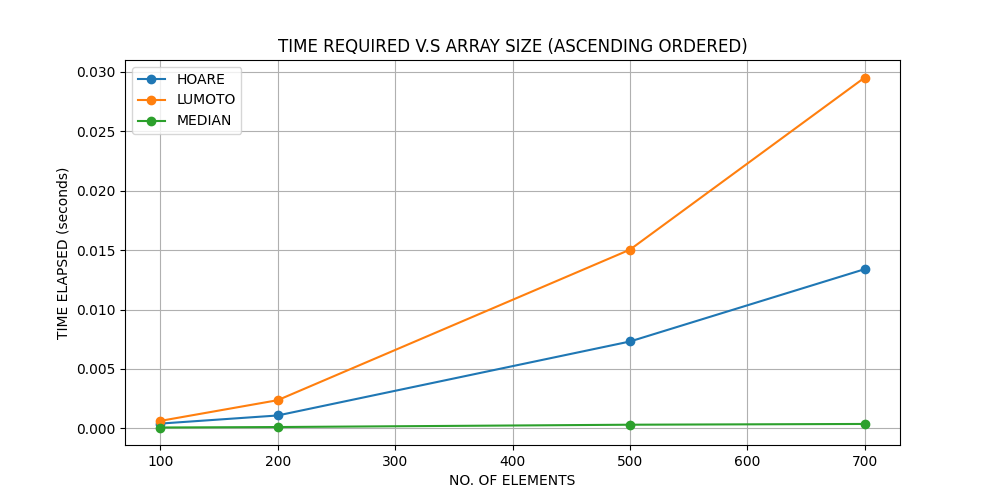
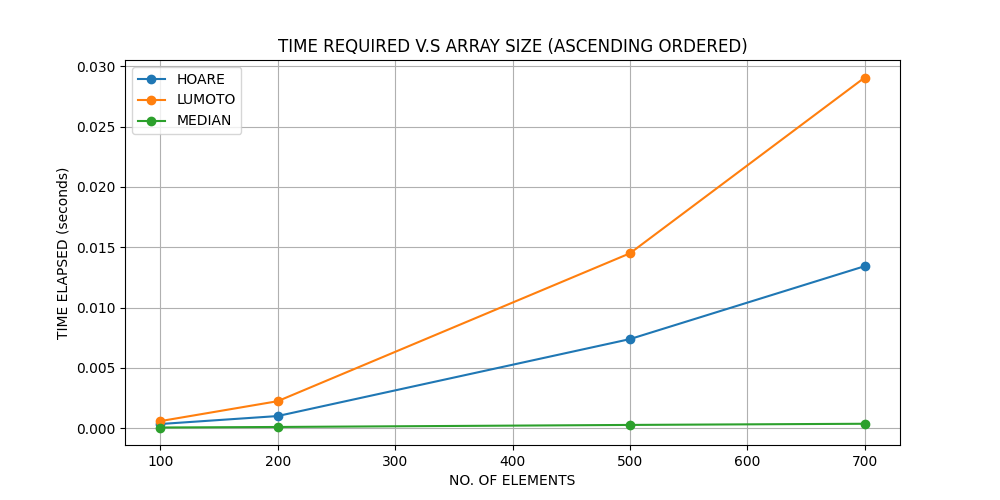
corrected plota

diff --git a/quicksort.py b/quicksort.py
@@ -170,17 +170,17 @@ def quicksort(N=100, order_type="random"):
     MedianTime = endMedian - startMedian
     print(f"TIME ELAPSED FOR MEDIAN : {MedianTime:0.9f} seconds")
 
-    # startHoare = time.perf_counter()
-    # hoare_arr = HoareQuicksort(arr_hoare, 0, len(arr_hoare) - 1)
-    # endHoare = time.perf_counter()
-    # HoareTime = endHoare - startHoare
-    # print(f"TIME ELAPSED FOR HOARE : {HoareTime:0.9f} seconds")
+    startHoare = time.perf_counter()
+    hoare_arr = HoareQuicksort(arr_hoare, 0, len(arr_hoare) - 1)
+    endHoare = time.perf_counter()
+    HoareTime = endHoare - startHoare
+    print(f"TIME ELAPSED FOR HOARE : {HoareTime:0.9f} seconds")
 
-    # startLumoto = time.perf_counter()
-    # lumotto_arr = LumotoQuicksort(arr_lumoto, 0, len(arr_lumoto) - 1)
-    # endLumoto = time.perf_counter()
-    # LumotoTime = endLumoto - startLumoto
-    # print(f"TIME ELAPSED FOR LUMOTO : {LumotoTime:0.9f} seconds")
+    startLumoto = time.perf_counter()
+    lumotto_arr = LumotoQuicksort(arr_lumoto, 0, len(arr_lumoto) - 1)
+    endLumoto = time.perf_counter()
+    LumotoTime = endLumoto - startLumoto
+    print(f"TIME ELAPSED FOR LUMOTO : {LumotoTime:0.9f} seconds")
 
 
     return HoareTime, LumotoTime, MedianTime
@@ -193,8 +193,8 @@ def quicksort(N=100, order_type="random"):
 ########################
 
 # TYPE="random"
-# TYPE = "ascending"
-TYPE="descending"
+TYPE = "ascending"
+# TYPE="descending"
 
 # SIZES = [100, 200, 500, 700, 1000, 1500, 2000, 2500, 3000, 5000, 7000, 10000, 15000, 20000, 25000, 30000, 50000, 70000, 100000, 150000, 200000, 250000, 300000, 500000, 700000, 1000000, 1500000, 2000000, 2500000, 3000000, 5000000]
 
